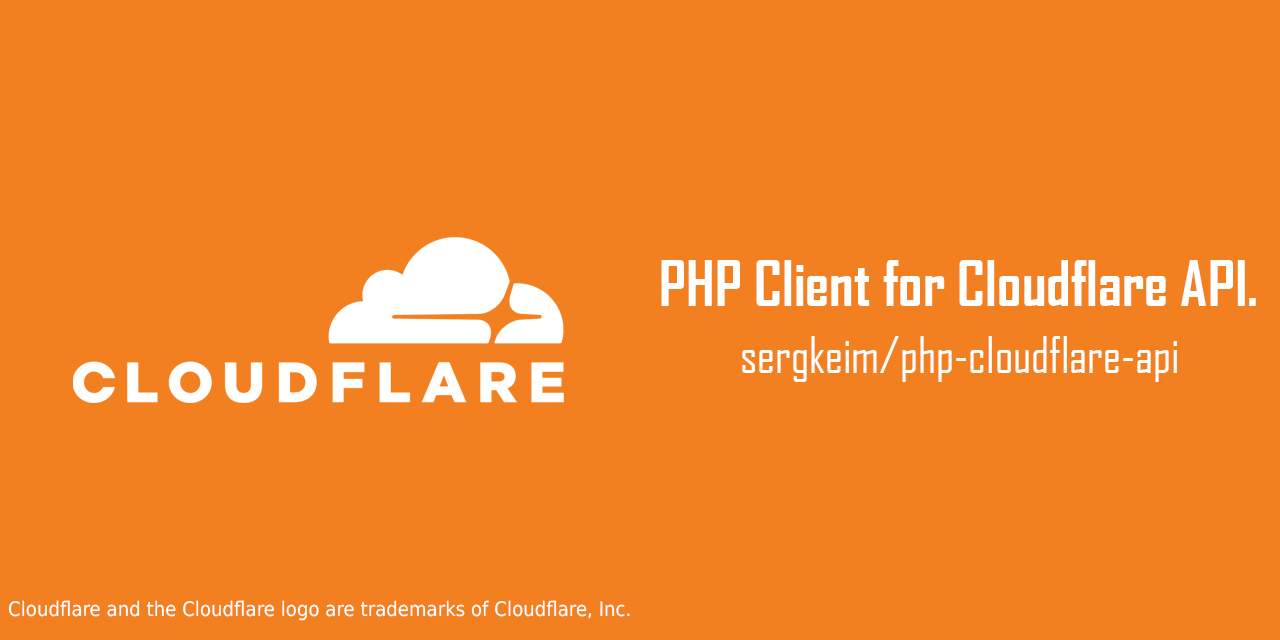
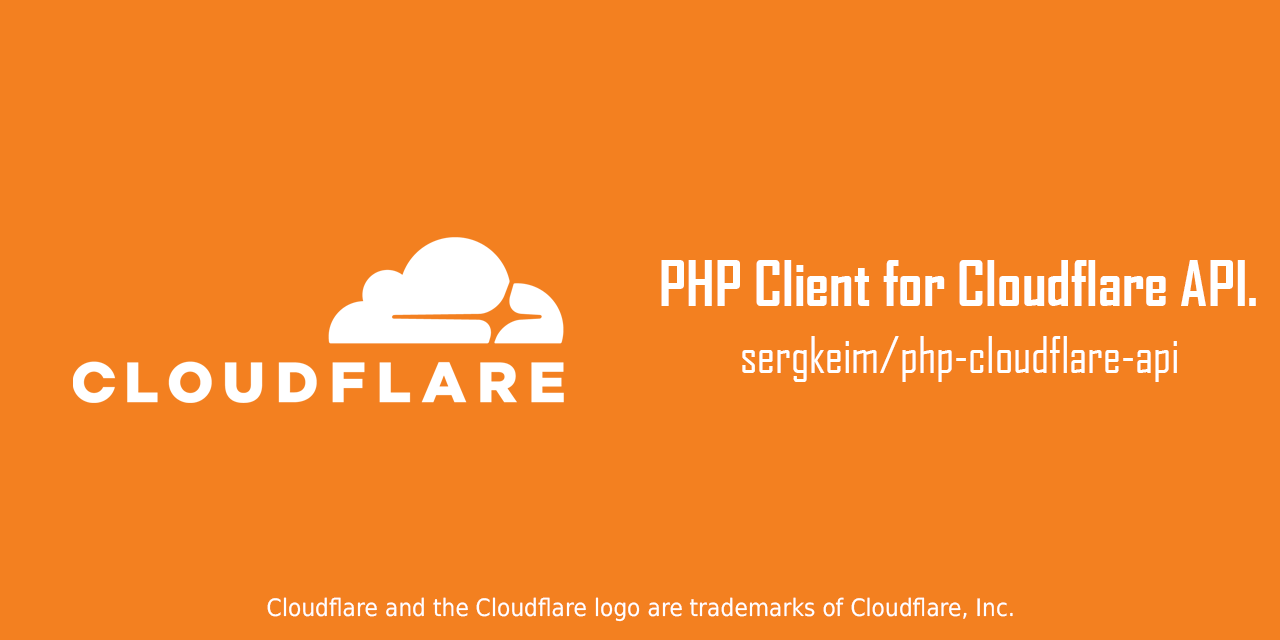
New preview
Made trademark attribution bigger font size

Changed region(s): [[0.0, 0.9375, 0.7812, 0.9688]]

diff --git a/README.md b/README.md
@@ -2,7 +2,7 @@
 
 A simple PHP Client for [Cloudflare API](https://developers.cloudflare.com/api/).
 
-![Banner](https://repository-images.githubusercontent.com/839240046/15cbfac2-aaa9-4910-a718-23c2d7727812)
+![Banner](https://repository-images.githubusercontent.com/839240046/29efc427-1f2c-4248-9b1f-b006699d344b)
 
 <p align="center">
     <a href="https://github.com/sergkeim/php-cloudflare-api/actions?query=workflow%3ATests">
